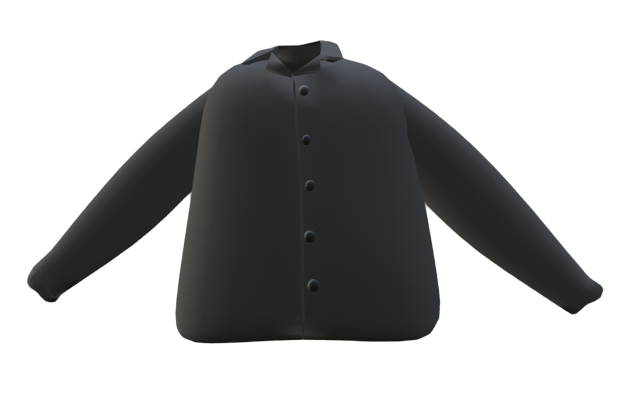
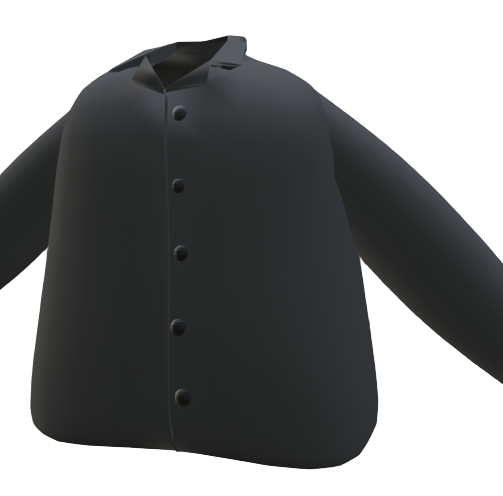
random fixes

Changed region(s): [[0.0, 0.0594, 1.0, 0.9505], [0.4771, 0.5644, 0.507, 0.5941], [0.4771, 0.4455, 0.507, 0.4752]]

diff --git a/src/App.js b/src/App.js
@@ -1,6 +1,6 @@
 import { Suspense, useState } from 'react'
 import { Canvas } from '@react-three/fiber'
-// import { OrbitControls } from "@react-three/drei";
+import { OrbitControls } from "@react-three/drei";
 import ProjectInfo from './components/ProjectInfo';
 import Model from './components/Model'
 import './App.css'
@@ -20,8 +20,8 @@ import {
 export default function App() {
 
   const [hatState, setHatState] = useState({ isOpen: false, current: "red-hat" })
-  const [topState, setTopState] = useState({ isOpen: false, current: "jacket" })
-  const [bottomState, setBottomState] = useState({ isOpen: false, current: "pants" })
+  const [topState, setTopState] = useState({ isOpen: false, current: "shirt" })
+  const [bottomState, setBottomState] = useState({ isOpen: false, current: "shorts" })
 
 
   const closeCloset = () =>{
@@ -75,7 +75,6 @@ export default function App() {
             </div>
           </div>
         </div>
-
      
         <Canvas className="model"  >
           <ambientLight intensity={0.4} />
@@ -84,8 +83,6 @@ export default function App() {
             <Model hatState={hatState} topState={topState} bottomState={bottomState} scale={1.2} position={[0, -6, 0]} />
           </Suspense>
         </Canvas>
-
-       
         </div>
 
 

diff --git a/src/App.css b/src/App.css
@@ -22,15 +22,14 @@
 }
 
 .closet-buttons button{
-  margin-bottom: 20px;
-  margin-right: 10px;
+ 
   background: transparent;
   border: none;
  
 }
 
 .closet-buttons img{
-  width: 100px;
+  width: 150px;
 }
 
 
@@ -69,7 +68,7 @@ canvas {
 }
 .closet{
   position: absolute;
-  top: 200px;
+  top: 170px;
   z-index: 1;
 }
 
@@ -116,6 +115,8 @@ canvas {
   gap: 20px;
 
 
+
+
 }
 
 .project-info img {
@@ -124,12 +125,13 @@ canvas {
 }
 
 .project-text {
-  background-color: white;
+  background-color: #ffeaee;
   border-radius: 20px;
 
   width: 100%;
   padding-top: 20px;
   padding-bottom: 20px;
+
  
  
 }

diff --git a/public/index.html b/public/index.html
@@ -7,7 +7,7 @@
     <meta name="theme-color" content="#000000" />
     <meta
       name="description"
-      content="Web site created using create-react-app"
+      content="Hamzey Beauferris Personal Website"
     />
     <link rel="apple-touch-icon" href="%PUBLIC_URL%/logo192.png" />
     <!--

diff --git a/src/components/Project.css b/src/components/Project.css
@@ -42,6 +42,7 @@
    display: flex;
    flex-direction: column;
    align-items:flex-end;
+   
 }
 
 .card {
